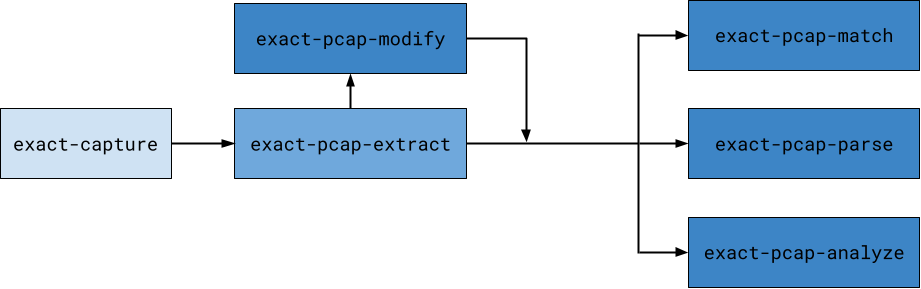
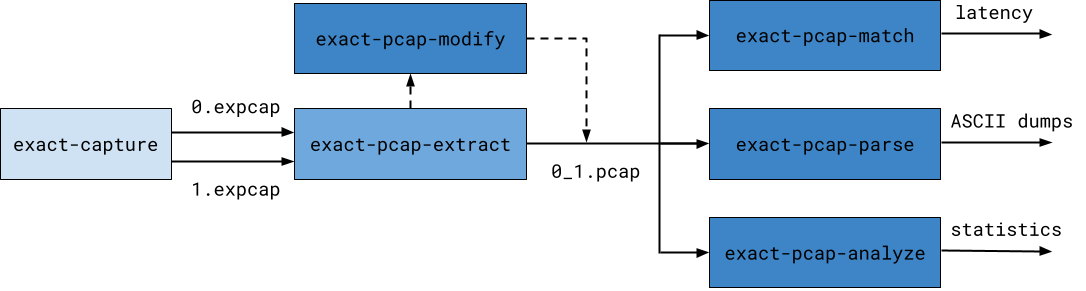
reframe utils overview around l3 benchmark

Changed region(s): [[0.0, 0.0, 1.0, 0.9965]]

diff --git a/docs/src/utils.md b/docs/src/utils.md
@@ -1,39 +1,43 @@
 # Overview
 
-Exact Capture is supplied with a collection of tools for operating on expcap files.
-These are:
+The Exact Capture toolchain provides all the functionality necessary to accurately benchmark and measure the performance of network devices.
+This guide will demonstrate how each tool can be used to benchmark the performance of a Layer 3 switch.
+Here is a brief description of each tool:
 
-* **[exact-pcap-extract](./extract.md)** - This tool is used to extract packets from expcap files and write them to another format. 
-It can be used to extract the timestamps present in expcap files and Fusion HPT trailers. 
+* **[exact-pcap-extract](./extract.md)** - This tool is used to merge packets from the separate capture files generated by `exact-capture`.
+It can be used to extract the picosecond timestamps present in expcap files and Fusion HPT trailers. 
 It can also steer packets to separate files based on the packet contents.
 
 * **[exact-pcap-match](./match.md)** - A common use case of is for Exact Capture is latency calculations. 
 This tool can be used to match identical frames from two pcap or expcap files and calculate the latency between them. 
-It can be easily extended to support matching frames that are not identical (e.g. tick-to-trade latency calculations).
 
 * **[exact-pcap-modify](./modify.md)** - This tool can be used to filter and modify header values (Ethernet/IPv4/L4) in pcap/expcap files.
+As it will preserve the original timestamps in the packets it modifies, it can be used to allow `exact-pcap-match` to match packets that have been modified by another device.
 
 * **[exact-pcap-parse](./parse.md)**  - This tool is useful for creating ASCII text dumps of pcap and expcap files and for working with picosecond timestamps.
+These ASCII text dumps are easily parsable by external tooling.
 
 * **[exact-pcap-analyze](./analyze.md)** - This tool prints statistics about the packet rates/throughput for a given capture file.
 
+The diagram below provides an overview of how each tool is used.
+
 ![The Exact Capture toolchain](img/toolchain.png)
 
-## Usage
+## Benchmarking
 
-Once a packet capture has been produced by exact-capture, users may need to process this capture in another application. 
-This guide will walk through a basic usage of the full exact-capture toolchain.
+In order to perform this benchmark, we will need a traffic generator and a device that can mirror traffic at the ingress and egress of the device under test (DUT).
+This network topology can then be arranged as below:
 
-This guide will assume that packets have been sent to and received from another device.
-It will demonstrate how to utilise the full Exact Capture toolchain to capture traffic, extract latency statistics and validate correctness.
+![Benchmarking topology](img/capture_topo.png)
 
-!!!Note
-	In order to acheive the desired outcome, the capture will need to contain traffic in both directions (sent to the device and received from the device).
-	Exact Capture can only capture **ingress** traffic, so an external device (such as a Fusion HPT) will need to be used to capture traffic as it is sent to the device under test.
+!!! Note
+	In order to benchmark the latency of the DUT, the capture will need to contain traffic in both directions (sent to the device and received from the DUT).
+	Exact Capture can only capture **ingress** traffic, so an external device (such as a Fusion HPT) must be used to capture traffic as it is sent to the DUT.
 
 ## Capture
 
-First, packets are captured via exact-capture. See the [configuration guide](./config.md) for more information on the parameters for exact-capture.
+The first stage required is to generate traffic and capture it with `exact-capture`.
+See the [configuration guide](./config.md) for more information on the parameters for `exact-capture`.
 
 ```
 $ exact-capture -i exanic0:0 -i -exanic1:0 -o ./cap0 -o ./cap1 -c 0:1:2,3 -k -S
@@ -51,37 +55,43 @@ Exact Capture finished
    SW Overflows:      0 times   ( 0.000 /s   )
 ```
 
+This capture will take the input from both `exanic0:0` and `exanic1:0` and save it to `cap0-0.expcap` and `cap1-0.expcap`.
 This capture contains picosecond timestamps that were produced by the ExaNIC used for capture.
 With the initial capture saved on disk, we can begin to process the capture with the utility toolchain.
 
 ## Extract
 
-Before any other analysis is performed, the captures produced by `exact-capture` should be "extracted" by `exact-pcap-extract`.
-As exact-capture has produced two separate captures in this example, this tool will merge the separate captures and ensure that the timestamps in the extracted capture are in order.
+Before any other analysis is performed, the captures produced by `exact-capture` should be merged by `exact-pcap-extract`.
+In the previous stage, traffic from two inputs (`exanic0:0` and `exanic1:0`) was written to two different files (`cap0-0.expcap` and `cap1-0.expcap`).
+This is because `exact-capture` will spread packets from both ports across both files.
 
-Note that when `exact-capture` was executed, it was listening on two interfaces and writing to two destinations.
-`exact-capture` will spread packets from both ports across both files.
-`exact-pcap-extract` can also be used to extract the original ports from both captures, so that packets arriving on a given device/port are in a separate file:
+With `exact-pcap-extract` we can merge packets from capture files.
+It can also allow packets to be steered to different files depending upon the data in each packet.
+We will invoke `exact-pcap-extact` such that the ingress and egress traffic is contained in separate files.
 
 ```
-$ exact-pcap-extract -i cap0-0.expcap -i cap1-0.expcap -w cap_ext -W ./extracted -a -f expcap -s expcap
+$ exact-pcap-extract -i cap0-0.expcap -i cap1-0.expcap -w cap_ext -W ./extracted -a -f expcap -s hpt -t
 ```
 
-This will steer packets arriving on each unique port in the capture to separate files.
-After this stage, there should now be two separate files, `./extracted/cap_ext_device_0_port_0.pcap` and `./extracted/cap_ext_device_1_port_0.pcap`.
+This usage will cause `exact-pcap-extract` to steer packets to separate files, depending on which port of the Fusion HPT they arrived on.
+This allows us to cleanly separate the input and output traffic that was sent to/received from the DUT.
+After this stage, there should now be two separate files, `./extracted/cap_ext_device_0_port_0.pcap` and `./extracted/cap_ext_device_0_port_1.pcap`.
 
 ## Modify
 
 Now that we have split the raw capture into two separate files, we could attempt to match packets and derive analyitcs from the extracted captures.
-However, the traffic in the extracted captures may not be identical (as the device they were sent to could have transformed them).
+However, the traffic that was sent to the DUT may not exactly match the traffic that was received back from the DUT.
+As we're benchmarking a Layer 3 switch, we know that the switch will perform some transformations on the input traffic depending on its configuration.
+
 Exact PCAP Match will attempt to match packets across the entire packet, so if there are any differences between the two captures passed to `exact-pcap-match` it will not be able to match these correctly.
 
 The `exact-pcap-modify` tool can be used to modify packets in capture files.
-We will use it to modify the capture taken before transofmration so that the packets in that capture match the packets captured after transformation.
+We will use it to modify the ingress traffic such that it identically matches the egress traffic.
 
-Suppose that traffic before transformation is located in `./extracted/cap_ext_device_0_port_0.pcap` and traffic captured after the transformation is located in `./extracted/cap_ext_device_1_port_0.pcap`.
-For this example, assume that before traffic traversed the device, the SRC IP of outgoing packets was 1.1.1.1 and that the device changed this to 2.2.2.2.
-So we will need to use `exact-pcap-modify` to modify packets in `./extracted/cap_ext_device_0_port_0.pcap` such that any frames with SRC IP are modified such that the SRC IP becomes 2.2.2.2:
+Suppose that traffic before transformation is located in `./extracted/cap_ext_device_0_port_0.pcap` and traffic captured after the transformation is located in `./extracted/cap_ext_device_0_port_1.pcap`.
+For this example, we will also assume that before traffic traversed the device, the SRC IP of outgoing packets was 1.1.1.1 and that the DUT changed the SRC IP to 2.2.2.2.
+
+This means we will need to use `exact-pcap-modify` to modify packets in `./extracted/cap_ext_device_0_port_0.pcap` such that any frames with SRC IP are modified such that the SRC IP becomes 2.2.2.2:
 
 ```
 $ exact-pcap-modify -i ./extracted/cap_ext_device_0_port_0.pcap -w ./input -a 1.1.1.1,2.2.2.2 -f expcap
@@ -98,25 +108,43 @@ It will also indicate which packets failed to match, which can be used as a test
 $ exact-pcap-match -r ./extracted/cap_ext_device_1_port_0.pcap -i ./post_mod_0.pcap -c matches.csv -f expcap
 ```
 
-`matches.csv` will contain the timestamps, timestamp deltas (latency) and packet data from the matching packets in `./extracted/cap_ext_device_1_port_0.pcap` `./post_mod_0.pcap`.
+`matches.csv` will contain the timestamps, timestamp deltas (latency) and packet data from the matching packets in `./extracted/cap_ext_device_0_port_1.pcap` and `./post_mod_0.pcap`.
 From this point, additional statistics/analytics can be gathered from the current capture files as required.
 
 ## Parse
 
-Sometimes, it may be convenient to parse packet data in external tooling.
-The `exact-pcap-parse` utility can enable this by extracting packet timestamps and packet data to `.csv` files.
+It is often convenient to convert packet captures to plain text, so that they can be processed by external tooling which does not need to be `pcap` aware.
+The `exact-pcap-parse` utility can enable this functionality by extracting packet timestamps and packet data to `.csv` files.
 It can be invoked via:
 
 ```
 $ exact-pcap-parse -i ./post_mod_0.pcap -c ./parsed.csv -f expcap
 ```
 
+In the resulting `.csv` file each packet is stored on a separate line.
+For example, this means that we can easily determine the total number of packets in the capture just by running:
+
+```
+$ wc -l ./parsed.csv
+100004
+```
+
 ## Analyze
 
-Statistics other than traffic latency can be retrieved via the `exact-pcap-analyze` utility.
-This tool will print statistics such regarding the packet sizes, throughput, inter-frame gaps and packets per second of a given capture.
+Statistics other than traffic latency can be of interest when measuring the performance of a networked device.
+For this purpose, the `exact-pcap-analyze` tool can be used to print statistics such as the packet sizes, throughput, inter-frame gaps and packets per second of a given capture.
 It can be invoked via:
 
 ```
 $ exact-pcap-analyze -i ./post_mod_0.pcap -f expcap -r 10
+PCAP analyser, processing trace...
+...
+[1613519681.589953512]: offset=99207 window=100.001ms ipt=[7491.397ns < 64252ns < 3085434.147ns] size=[64B < 64.000B < 64B] rate=[0.000pps < 0.097pps < 0.133pps] 0.016Mpps 0.01Gbps
+#########################################################
+Found 100003 packets in trace "./post_mod_0.pcap"
+PCAP trace is 8116276549.47ns long (8116276.5495us, 8.1163s)
+Average packet rate is 12321.2904pps (0.0123Mpps)
+Packet sizes are in the range [64B,74B]
+Interfame gaps are in the range [7472.18ns,2074282148.39ns] note min IFG=0.00ns
+Packet rates are in the range [0.00pps,17548.77pps] [0.00Mpps,0.02Mpps]
 ```
